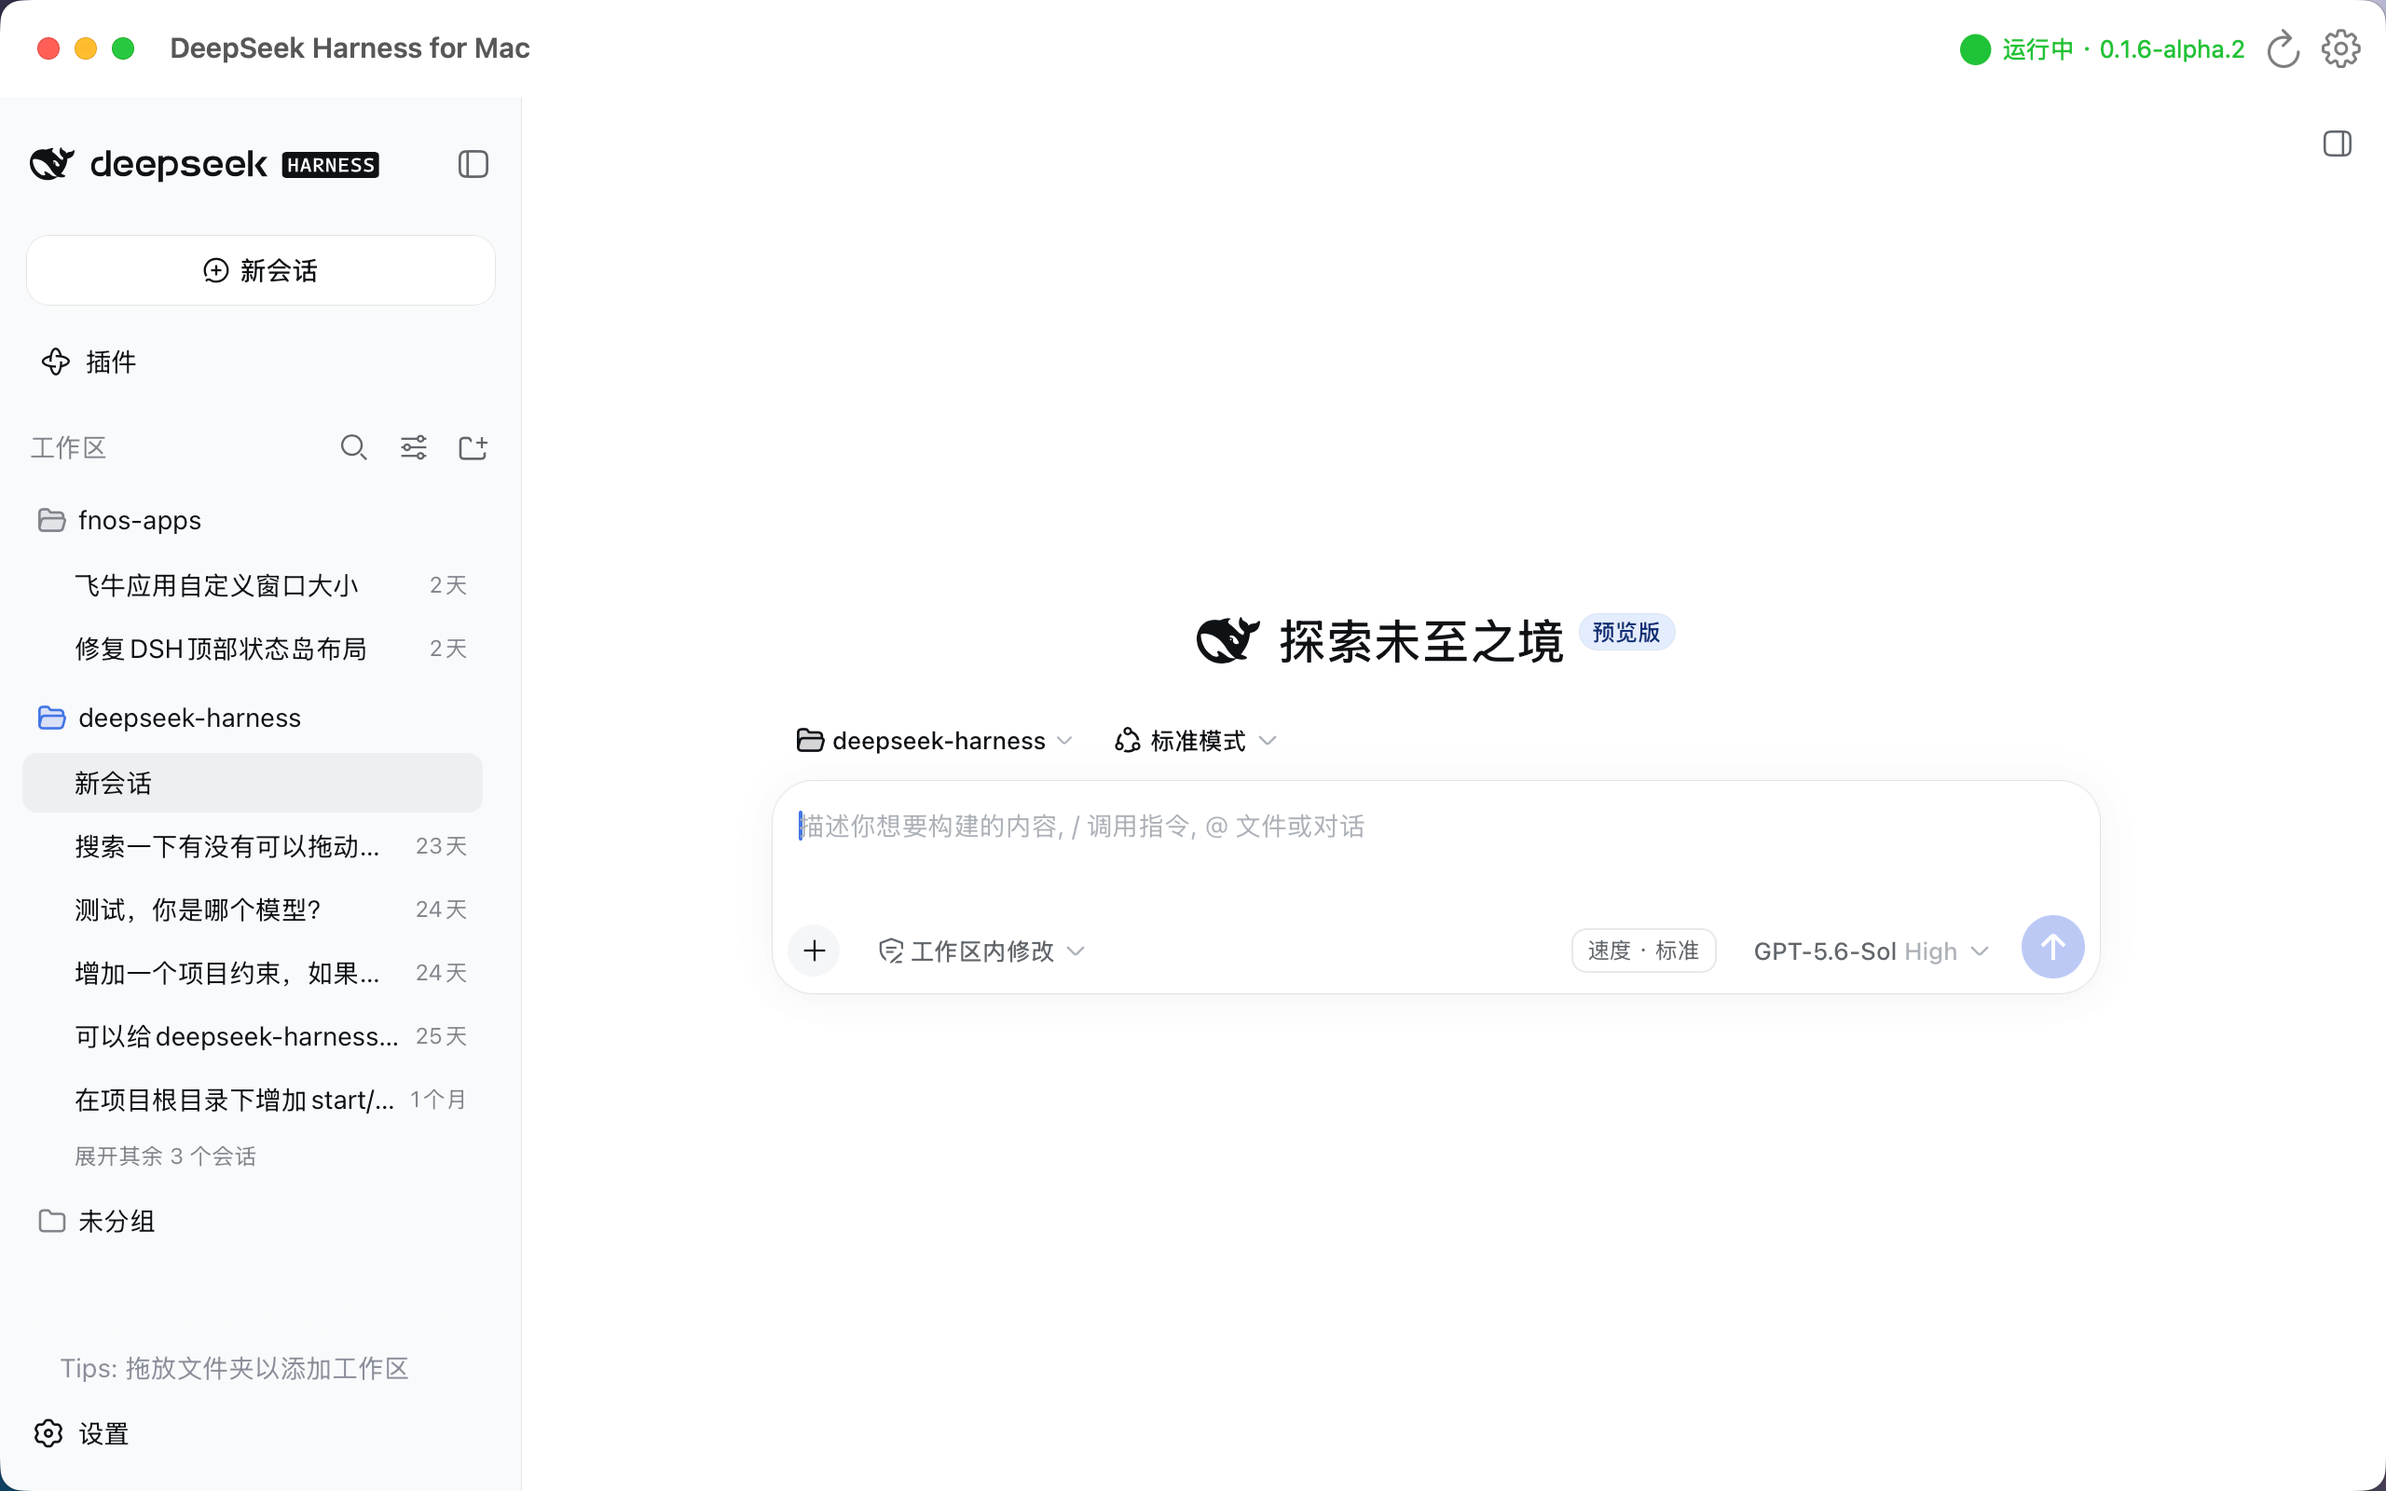
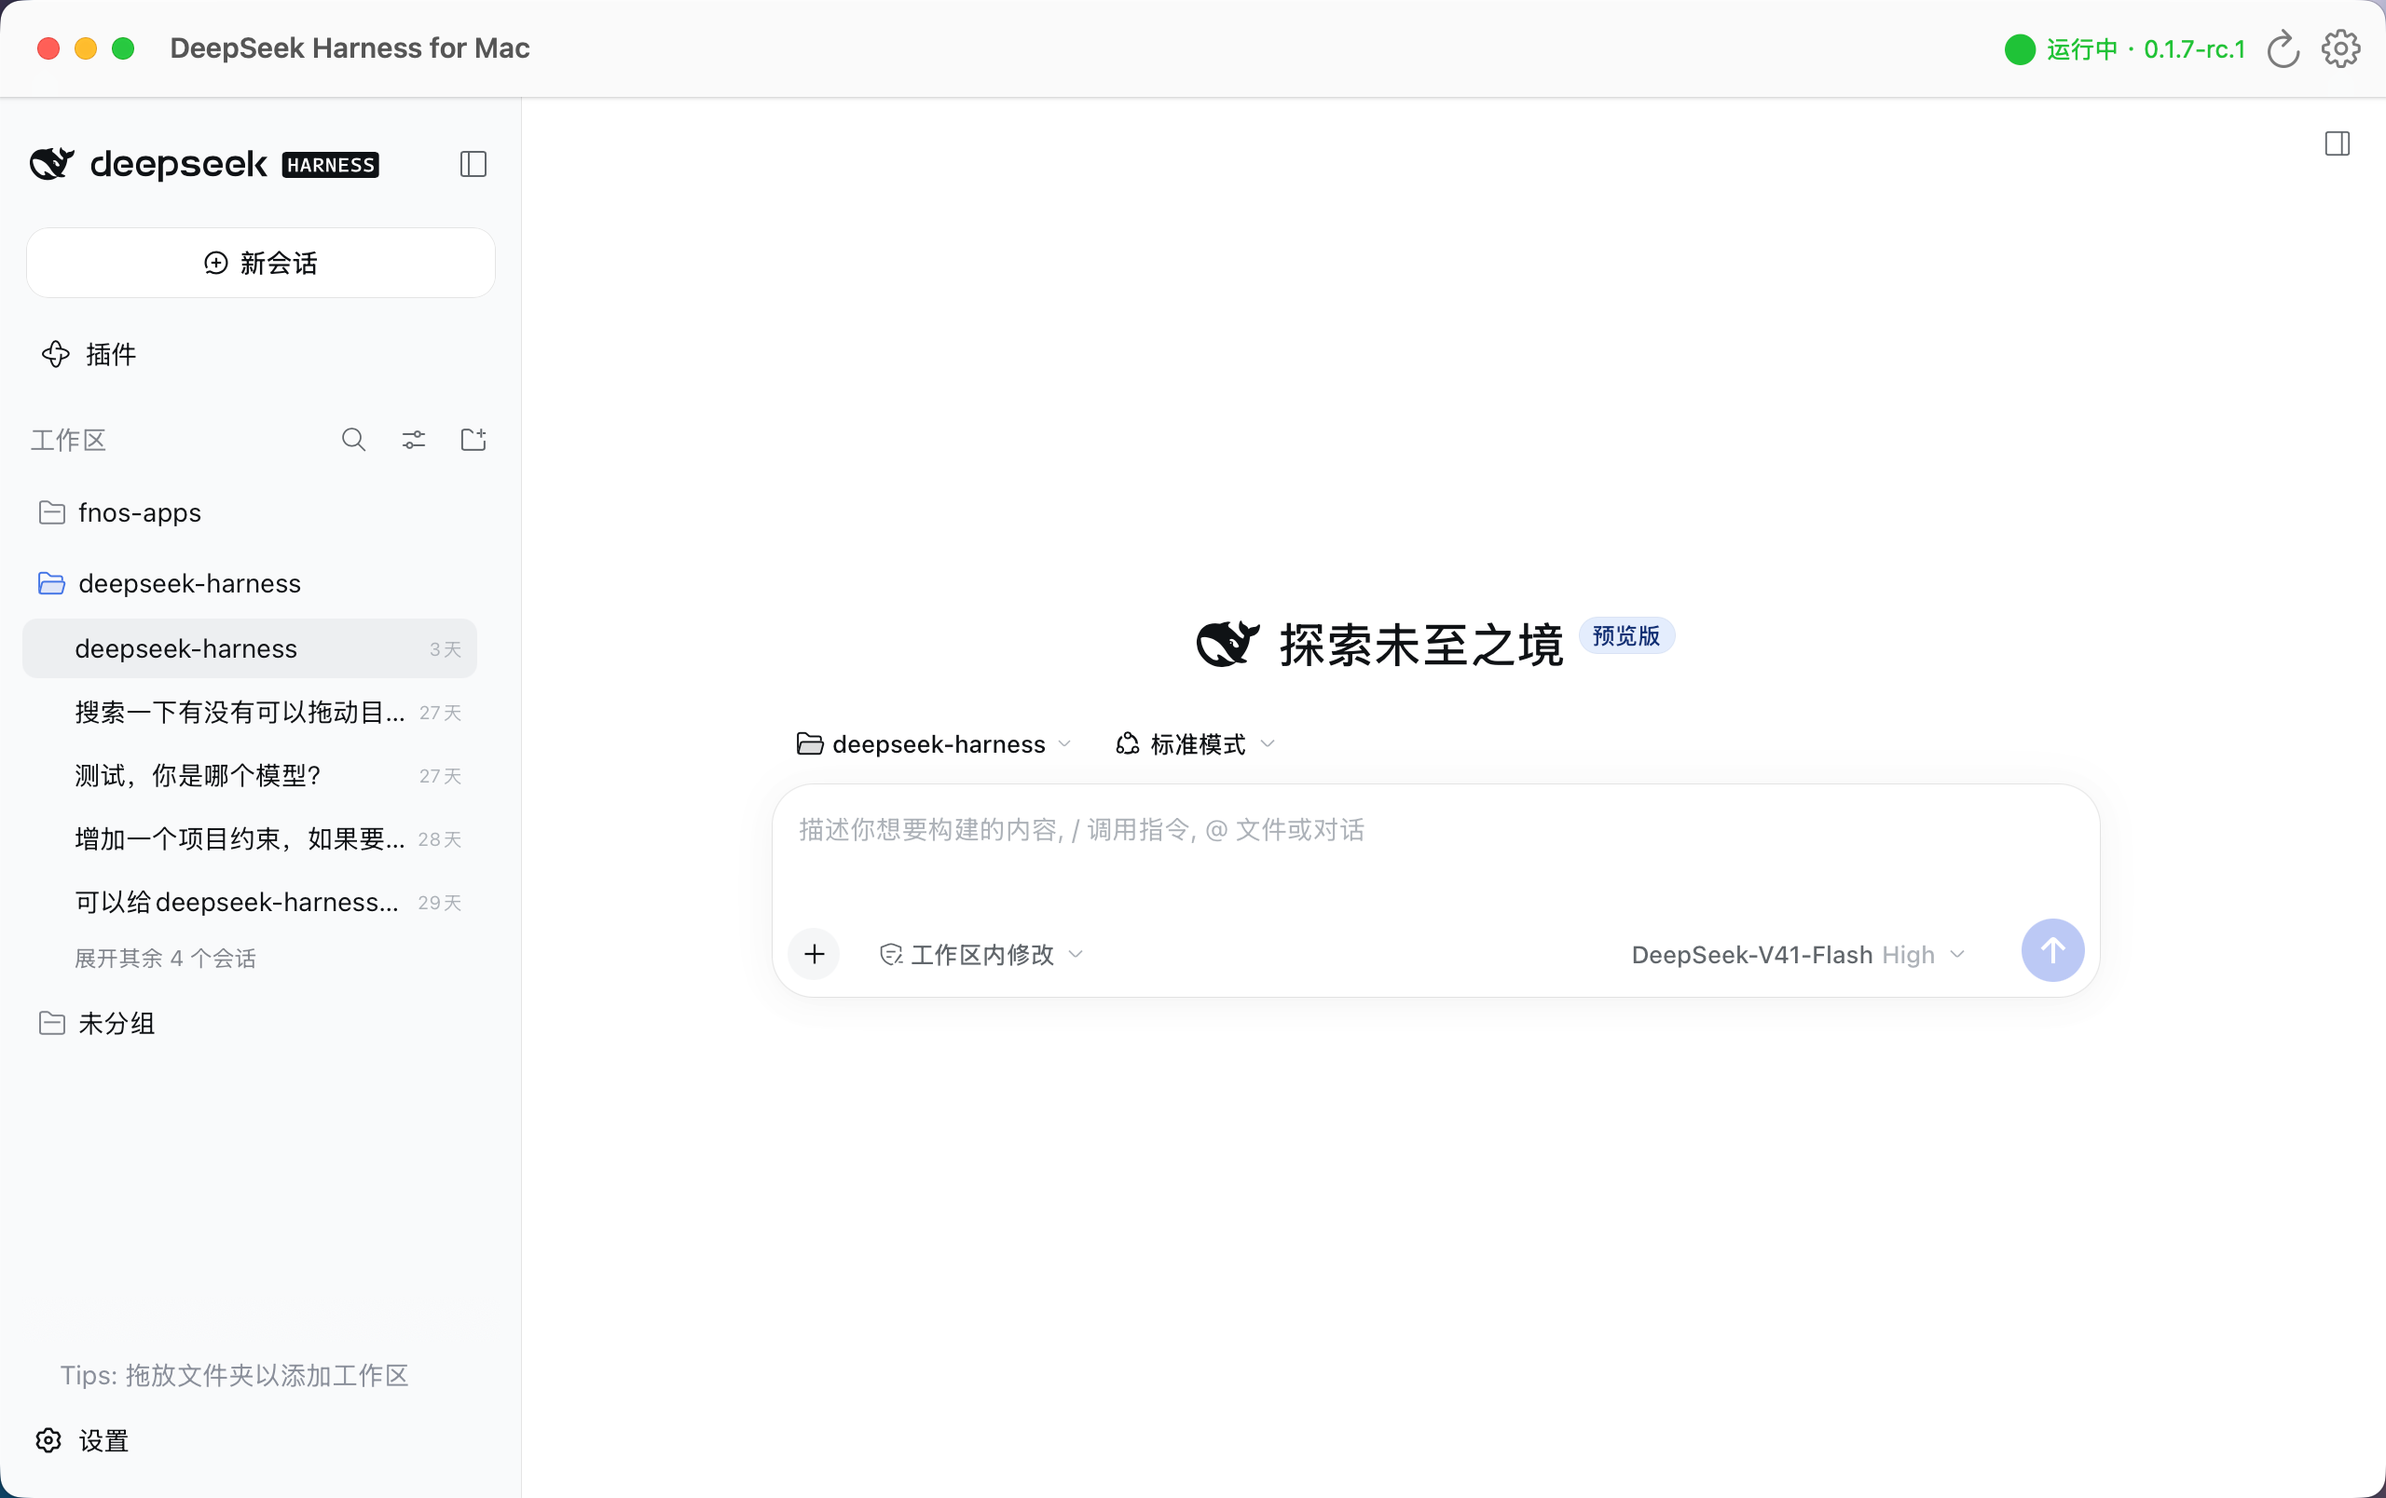
docs(readme): refresh application screenshots

diff --git a/README.md b/README.md
@@ -43,9 +43,13 @@
     </td>
   </tr>
   <tr>
-    <td align="center" colspan="2">
-      <a href="screenshots/setting.png"><img src="screenshots/setting.png" alt="DshForMac 设置窗口" width="200"></a><br>
+    <td align="center">
+      <a href="screenshots/setting.png"><img src="screenshots/setting.png" alt="DshForMac 设置窗口" width="360"></a><br>
       <strong>应用设置</strong>
+    </td>
+    <td align="center">
+      <a href="screenshots/tray-menu.png"><img src="screenshots/tray-menu.png" alt="DshForMac 菜单栏菜单" width="280"></a><br>
+      <strong>菜单栏</strong>
     </td>
   </tr>
 </table>
